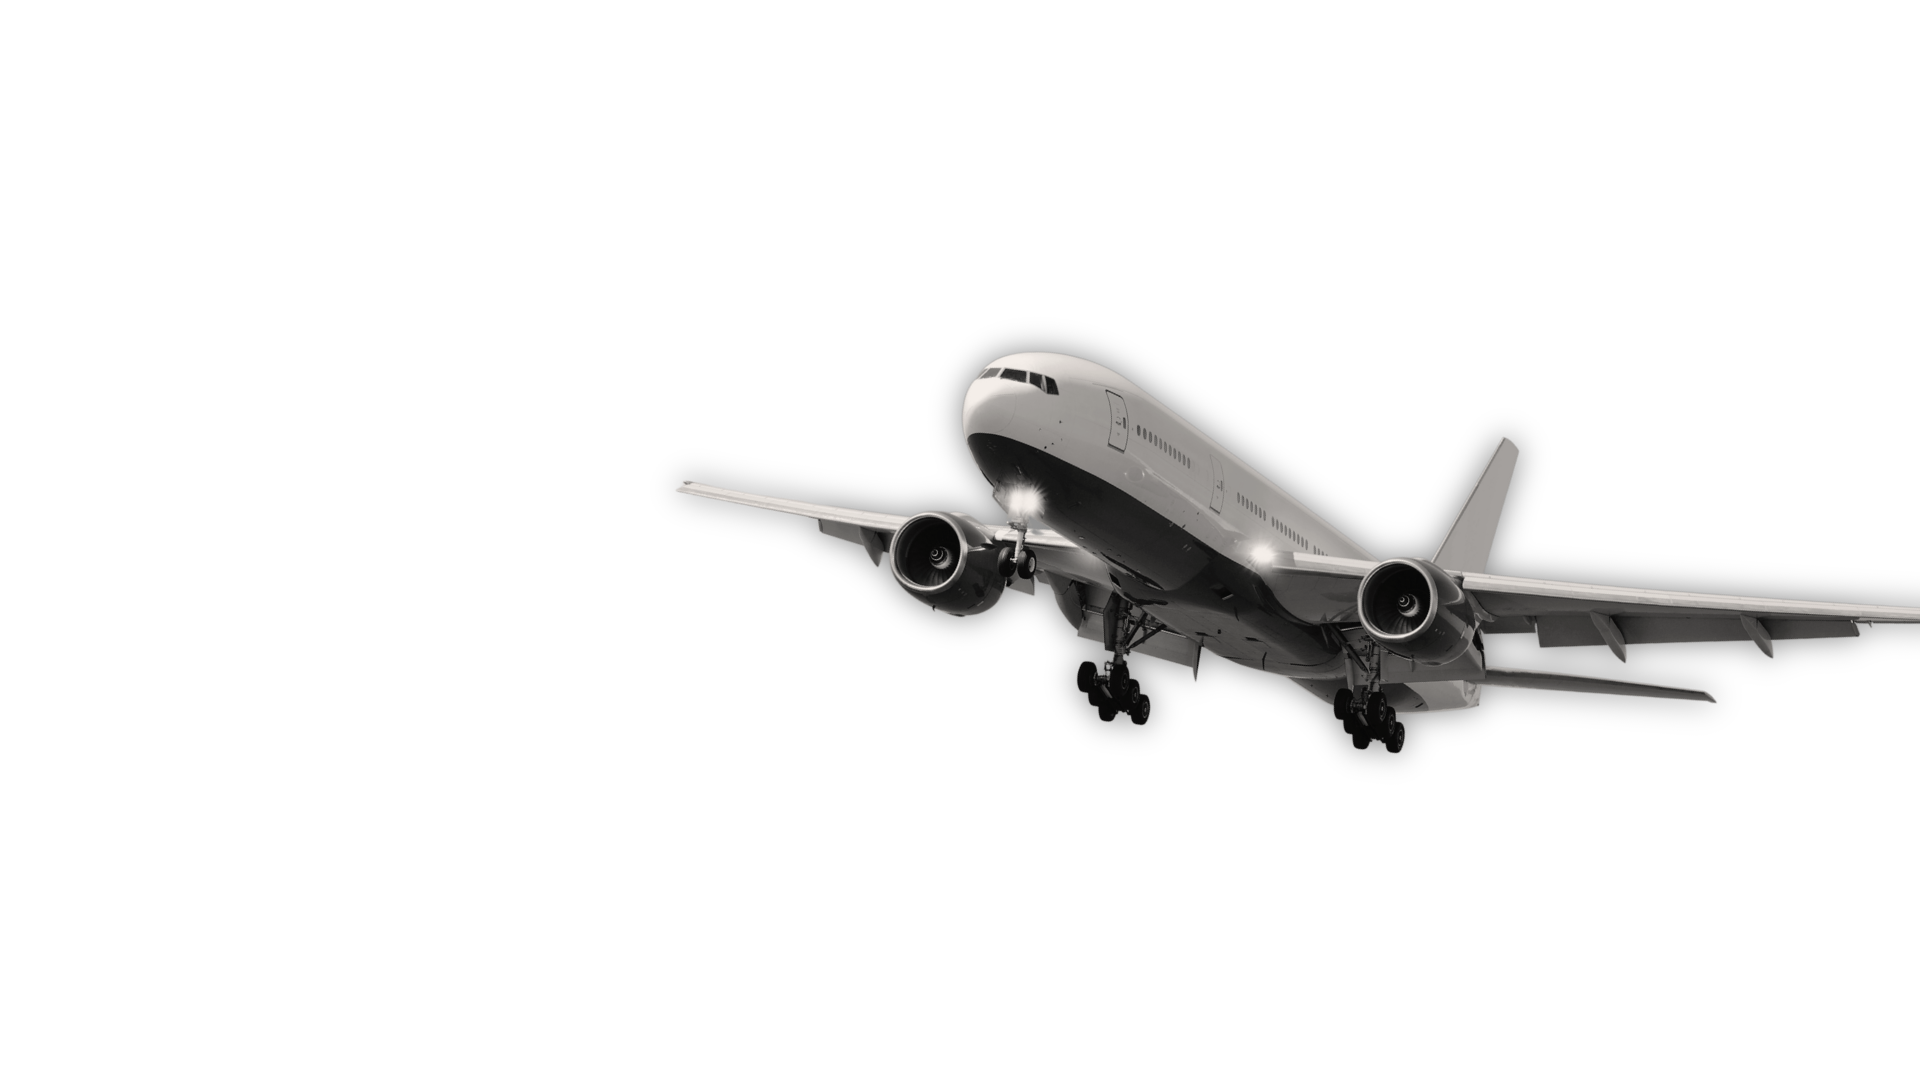
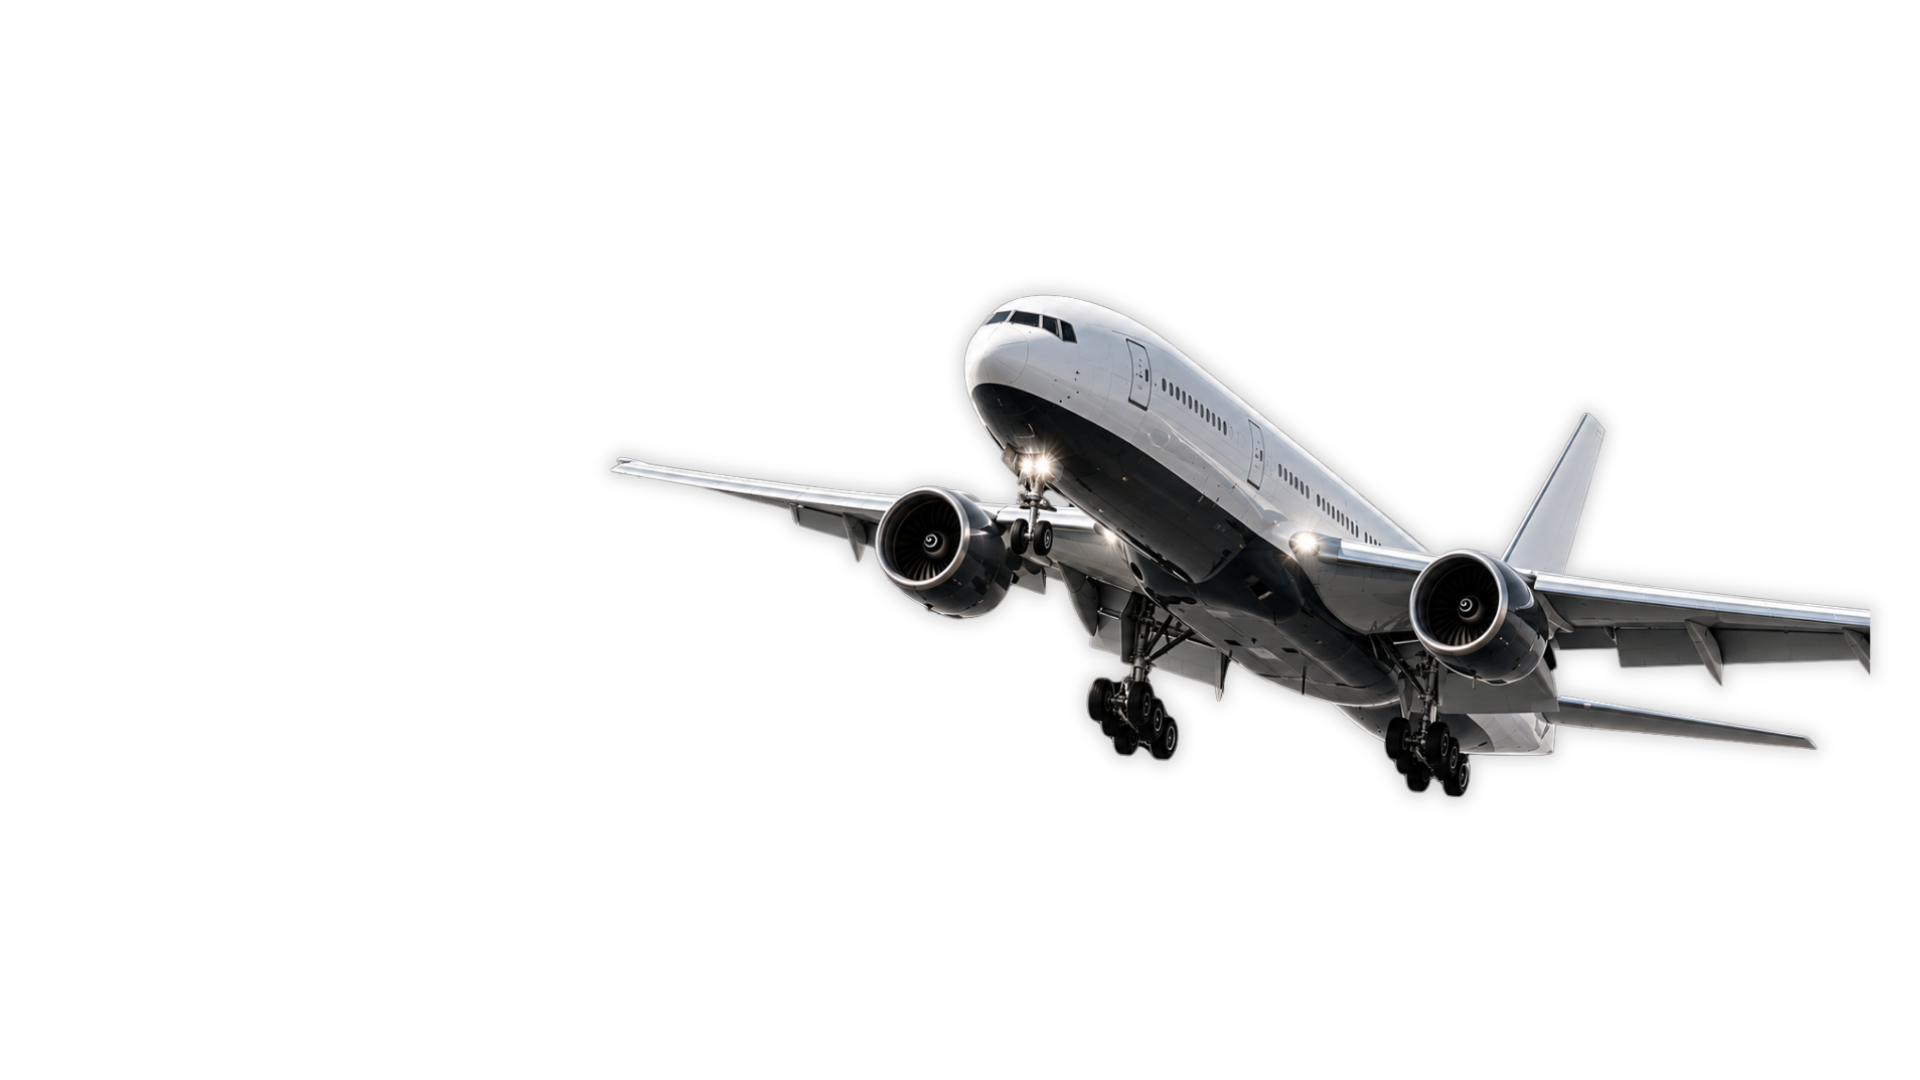
Atualização Bot

Changed region(s): [[0.3125, 0.2444, 1.0, 0.7333]]

diff --git a/CHATBOT/public/darkmodedemais.js b/CHATBOT/public/darkmodedemais.js
@@ -18,7 +18,9 @@ document.addEventListener("DOMContentLoaded", () => {
     if (modoSalvo === "ativo") {
 
         document.body.classList.add("dark-mode");
-        botao.innerHTML = "☀";
+        botao.innerHTML =
+        ` <img src="/global-img/icones/sol.png" alt="Modo claro"> `
+        ;
 
         if (logo) {
             logo.src = "/global-img/logo/logodarkmode.png";
@@ -26,7 +28,9 @@ document.addEventListener("DOMContentLoaded", () => {
 
     } else {
 
-        botao.innerHTML = "🌙";
+        botao.innerHTML = 
+        `<img src="/global-img/icones/lua.png" alt="Modo claro"> `
+        ;
 
     }
 
@@ -44,7 +48,9 @@ document.addEventListener("DOMContentLoaded", () => {
 
         if (modoEscuro) {
 
-            botao.innerHTML = "☀";
+            botao.innerHTML =
+            ` <img src="/global-img/icones/sol.png" alt="Modo claro"> `
+            ;
 
             if (logo) {
                 logo.src = "/global-img/logo/logodarkmode.png";
@@ -54,7 +60,9 @@ document.addEventListener("DOMContentLoaded", () => {
 
         } else {
 
-            botao.innerHTML = "🌙";
+            botao.innerHTML = 
+            `<img src="/global-img/icones/lua.png" alt="Modo escuro"> `
+            ;
 
             if (logo) {
                 logo.src = "/global-img/logo/logo.png";

diff --git a/css/style.css b/css/style.css
@@ -47,7 +47,7 @@ body.dark-mode .cont {
     }
 .container {
     width: 100%;
-    height: 75vh;
+    height: 80vh;
     min-height: 0;
     background-image: url("../img/banners/aviao.png");
     background-size: 120%;
@@ -579,6 +579,7 @@ body.dark-mode .cont {
     justify-content: space-between;
     padding: 0 20px;
     box-sizing: border-box;
+    margin-top: -50px;
 }
 .galeria p {
     margin: 0 0 0 52px;
@@ -702,7 +703,6 @@ body.dark-mode .cont {
     grid-template-columns: repeat(3, 1fr);
     gap: 20px;
     padding: 30px;
-    background-color: var(--bg-soft);
     width: 96%;
     margin-top: 10px;
     margin-left: auto;
@@ -1156,11 +1156,6 @@ body.dark-mode .cont {
     font-family: 'Plus Jakarta Sans', sans-serif;
     color: var(--text);
 }
-.valor:hover {
-    transform: translateY(-4px);
-    background: var(--hover);
-    color: white;
-}
 .icon_valor {
     width: 50px;
     height: 50px;
@@ -1254,7 +1249,7 @@ body.dark-mode .cont {
 
 /* --- DARK MODE - PÁGINA PRINCIPAL --- */
 body.dark-mode .cont::before {
-    background: linear-gradient(to bottom, transparent, var(--bg-soft));
+    background: linear-gradient(to bottom, transparent, var(--bg));
 }
 
 body.dark-mode .campo input::placeholder,

diff --git a/CHATBOT/public/script.js b/CHATBOT/public/script.js
@@ -85,25 +85,20 @@ document.addEventListener("DOMContentLoaded", () => {
 
     });
 
-    const imagens = document.querySelectorAll(".imagem");
+    const imagens = document.querySelectorAll(".folder .imagem");
+let atual = 0;
 
-    let atual = 0;
+console.log("Total de imagens:", imagens.length);
 
-    if (imagens.length > 1) {
+if (imagens.length > 1) {
+    setInterval(() => {
+        imagens[atual].classList.remove("ativa");
 
-        setInterval(() => {
+        atual = (atual + 1) % imagens.length;
 
-            imagens[atual].classList.remove("ativa");
+        imagens[atual].classList.add("ativa");
 
-            atual++;
-
-            if (atual >= imagens.length) {
-                atual = 0;
-            }
-
-            imagens[atual].classList.add("ativa");
-
-        }, 3000);
-    }
-
+        console.log("Exibindo imagem:", atual + 1);
+    }, 3000);
+}
 });

diff --git a/CHATBOT/public/index.html b/CHATBOT/public/index.html
@@ -7,6 +7,7 @@
     <link rel="stylesheet" href="/css/style.css">
     <link rel="stylesheet" href="/global-css/modal-theme.css">
     <link rel="icon" type="image/png" href="/global-img/logo/apenaslogo.png">
+    <title>BoaTour</title>
 </head>
  
 <body>
@@ -137,9 +138,15 @@
 
   <div class="folder">
 
-    <img src="/img/img1.png" class="imagem ativa">
-    <img src="/img/img2.png" class="imagem">
-    <img src="/img/img3.png" class="imagem">
+    <img src="/img/img01.png" class="imagem ativa">
+    <img src="/img/img02.png" class="imagem">
+    <img src="/img/img03.png" class="imagem">
+    <img src="/img/img04.png" class="imagem">
+    <img src="/img/img05.png" class="imagem">
+    <img src="/img/img06.png" class="imagem">
+    <img src="/img/img07.png" class="imagem">
+    <img src="/img/img08.png" class="imagem">
+    
 
 </div>
 

diff --git a/VOOS/index.html b/VOOS/index.html
@@ -3,11 +3,12 @@
 <head>
     <meta charset="UTF-8">
     <meta name="viewport" content="width=device-width, initial-scale=1.0">
-    <title>Voos - BoaTour</title>
     <link rel="stylesheet" href="style.css">
     <link rel="stylesheet" href="../css/menurodape.css">
     <link rel="stylesheet" href="../css/modal-theme.css">
     <link rel="stylesheet" href="../css/assistente.css">
+    <link rel="icon" type="img" href="../img/logo/apenaslogo.png">
+    <title>BoaTour</title>
 </head>
 <body>
 <div class="nav">

diff --git a/CONFIGURAÇÕES/index.html b/CONFIGURAÇÕES/index.html
@@ -6,8 +6,8 @@
     <link rel="stylesheet" href="../css/menurodape.css">
     <link rel="stylesheet" href="style.css">
     <link rel="stylesheet" href="../css/modal-theme.css">
-    <link rel="icon" type="image/png" href="../img/logo/apenaslogo.png">
-    <title>Configurações | BoaTour</title>
+    <link rel="icon" type="img" href="../img/logo/apenaslogo.png">
+    <title>BoaTour</title>
 </head>
 <body>
     <div class="container">

diff --git a/ATIVIDADES/index.html b/ATIVIDADES/index.html
@@ -7,7 +7,8 @@
     <link rel="stylesheet" href="style.css">
     <link rel="stylesheet" href="../css/modal-theme.css">
     <link rel="stylesheet" href="../css/assistente.css">
-    <title>Atividades - BoaTour</title>
+    <link rel="icon" type="img" href="../img/logo/apenaslogo.png">
+    <title>BoaTour</title>
 </head>
 <body data-catalogo="atividades">
     <div class="nav">

diff --git a/HOTEIS/index.html b/HOTEIS/index.html
@@ -7,7 +7,8 @@
     <link rel="stylesheet" href="style.css">
     <link rel="stylesheet" href="../css/modal-theme.css">
     <link rel="stylesheet" href="../css/assistente.css">
-    <title>Hotéis - BoaTour</title>
+    <link rel="icon" type="img" href="../img/logo/apenaslogo.png">
+    <title>BoaTour</title>
 </head>
 <body class="pagina-hoteis">
     <div class="nav">

diff --git a/FAVORITOS/index.html b/FAVORITOS/index.html
@@ -7,7 +7,8 @@
     <link rel="stylesheet" href="style.css">
     <link rel="stylesheet" href="../css/modal-theme.css">
     <link rel="stylesheet" href="../css/assistente.css">
-    <title>Favoritos</title>
+    <link rel="icon" type="img" href="../img/logo/apenaslogo.png">
+    <title>BoaTour</title>
 </head>
 <body>
     <div class="nav">

diff --git a/DESTINOS/index.html b/DESTINOS/index.html
@@ -7,7 +7,8 @@
     <link rel="stylesheet" href="style.css">
     <link rel="stylesheet" href="../css/modal-theme.css">
     <link rel="stylesheet" href="../css/assistente.css">
-    <title>Destinos</title>
+    <link rel="icon" type="img" href="../img/logo/apenaslogo.png">
+    <title>BoaTour</title>
 </head>
 <body>
     <div class="nav">

diff --git a/OFERTAS/index.html b/OFERTAS/index.html
@@ -7,7 +7,8 @@
     <link rel="stylesheet" href="style.css">
     <link rel="stylesheet" href="../css/modal-theme.css">
     <link rel="stylesheet" href="../css/assistente.css">
-    <title>Ofertas</title>
+    <link rel="icon" type="img" href="../img/logo/apenaslogo.png">
+    <title>BoaTour</title>
 </head>
 <body>
     <div class="nav">

diff --git a/CADASTRO/index.html b/CADASTRO/index.html
@@ -9,6 +9,7 @@
     <link rel="stylesheet" href="../css/modal-theme.css">
     <link rel="stylesheet" href="../css/assistente.css">
     <link rel="icon" type="img" href="../img/logo/apenaslogo.png">
+    <title>BoaTour</title>
 </head>
 <body>
       <div class="total">
